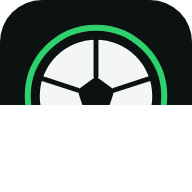
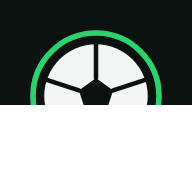
Inscrição por RPC (auth partilhado) e ícone PWA maskable
Auth partilhado (auth.users serve várias apps do projeto):
- Remove o trigger global on_auth_user_created/handle_new_user, que criava
  perfil Bet4Fun para QUALQUER signup do projeto
- Nova RPC ensure_profile() (SECURITY DEFINER), chamada pela app no 1.º acesso:
  só quem abre o Bet4Fun fica com perfil (admin+aprovado se for o admin_email,
  senão pendente). app.js chama-a no boot e no onAuthChange

Ícone PWA cortado no install:
- Redesenha o ícone full-bleed (sem cantos transparentes) com a bola dentro da
  safe zone; regenera icon-192/512.png
- manifest: purpose "any maskable" nos PNGs; bump do cache do SW para bet4fun-v4

Claude-Session: https://claude.ai/code/session_01UWVyyXQHVqZQYnSQF6q6Bn

diff --git a/js/app.js b/js/app.js
@@ -703,12 +703,17 @@ async function boot() {
   if (!IS_CONFIGURED) { renderSetup(); return; }
   try {
     state.session = await API.getSession();
-    if (state.session) state.profile = await API.getMyProfile();
+    if (state.session) {
+      await API.ensureProfile();               // inscreve no 1.º acesso
+      state.profile = await API.getMyProfile();
+    }
   } catch (e) { renderError(e); return; }
 
   API.onAuthChange(async (session) => {
     state.session = session;
-    state.profile = session ? await API.getMyProfile().catch(() => null) : null;
+    state.profile = session
+      ? await API.ensureProfile().then(() => API.getMyProfile()).catch(() => null)
+      : null;
     await navigate();
   });
 

diff --git a/js/api.js b/js/api.js
@@ -91,6 +91,14 @@ const liveAPI = {
   },
   async signOut() { await supabase.auth.signOut(); },
 
+  // Inscreve o utilizador no Bet4Fun no 1.º acesso (cria o perfil se faltar).
+  // O auth.users é partilhado por várias apps — por isso a inscrição é feita
+  // aqui, à chegada, e não por trigger global de signup (ver db/functions.sql).
+  async ensureProfile() {
+    const { error } = await supabase.rpc("ensure_profile");
+    if (error) throwErr(error, "Não foi possível criar o perfil");
+  },
+
   async _requireUid() {
     if (this._uid) return this._uid;
     const s = await this.getSession();

diff --git a/sw.js b/sw.js
@@ -2,7 +2,7 @@
    No produto final, os dados vêm sempre da rede (Supabase);
    apenas o shell (HTML/CSS/JS/ícones) é servido do cache. */
 
-const CACHE = "bet4fun-v3";
+const CACHE = "bet4fun-v4";
 const SHELL = [
   "./",
   "./index.html",

diff --git a/SPECS.md b/SPECS.md
@@ -132,7 +132,9 @@ CREATE VIEW market_pools AS
 ## 3. Autenticação e onboarding
 
 1. `supabase.auth.signInWithOAuth({ provider: 'google' })` — único método de login.
-2. Trigger `on_auth_user_created` cria a linha em `profiles` (nome/avatar do Google) com `is_approved=false`.
+2. A app chama a RPC `ensure_profile()` no 1.º acesso, que cria a linha em `profiles` (nome/avatar do
+   Google) com `is_approved=false`. **Nota:** o `auth.users` é partilhado por várias apps do projeto —
+   por isso a inscrição é feita à chegada ao Bet4Fun (RPC), e **não** por trigger global de signup.
 3. Utilizador não aprovado vê um ecrã "à espera que o admin te deixe entrar".
 4. Admin aprova no painel → RPC `approve_player(profile_id)`: seta `is_approved=true` e insere
    transação `initial` com as fichas de `settings('initial_chips')`.

diff --git a/db/README.md b/db/README.md
@@ -21,7 +21,9 @@ Corre no SQL Editor do Supabase, **por esta ordem**:
 1. **`schema.sql`** — schema `bet4fun`, tabelas (+ RLS ativa), views (agregados) e seed dos settings.
 2. **`functions.sql`** — helpers (`is_admin`, `app_setting_int`), RPCs (`place_bet`, `settle_market`,
    `void_market`, `request_bailout`, `approve_bailout`, `approve_player`, `create_match_with_markets`,
-   `set_match_result`, `refresh_badges`) e triggers (perfil no signup + congelar colunas privilegiadas).
+   `set_match_result`, `refresh_badges`, `ensure_profile`) e o trigger que congela colunas privilegiadas.
+   A inscrição de perfis é feita pela RPC `ensure_profile()` (chamada pela app), **não** por trigger em
+   `auth.users` — essa tabela é partilhada por várias apps do projeto.
 3. **`policies.sql`** — RLS policies + grants.
 
 `policies.sql` depende de `functions.sql` (usa `bet4fun.is_admin()`). Correr fora de ordem rebenta